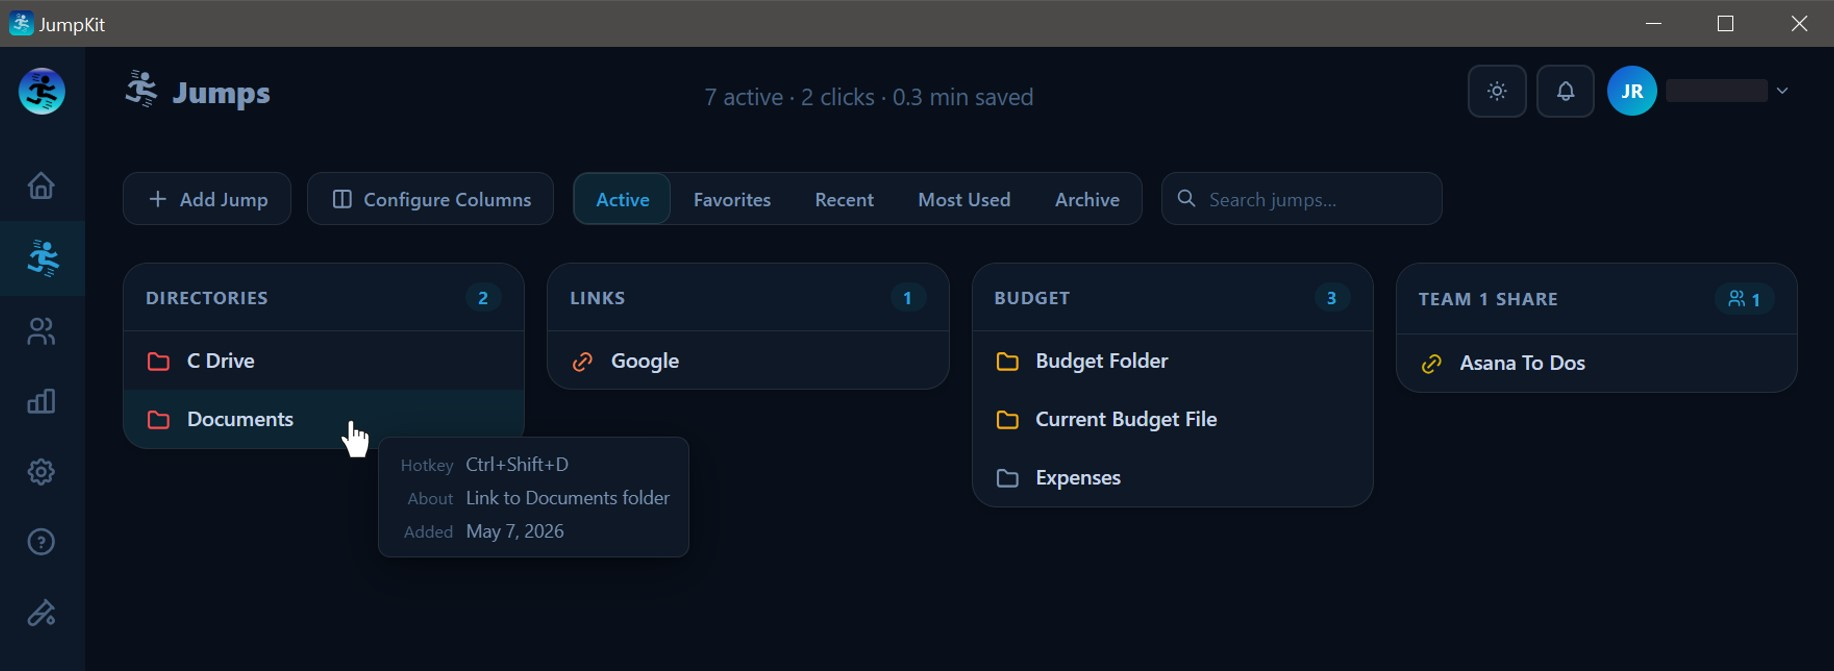
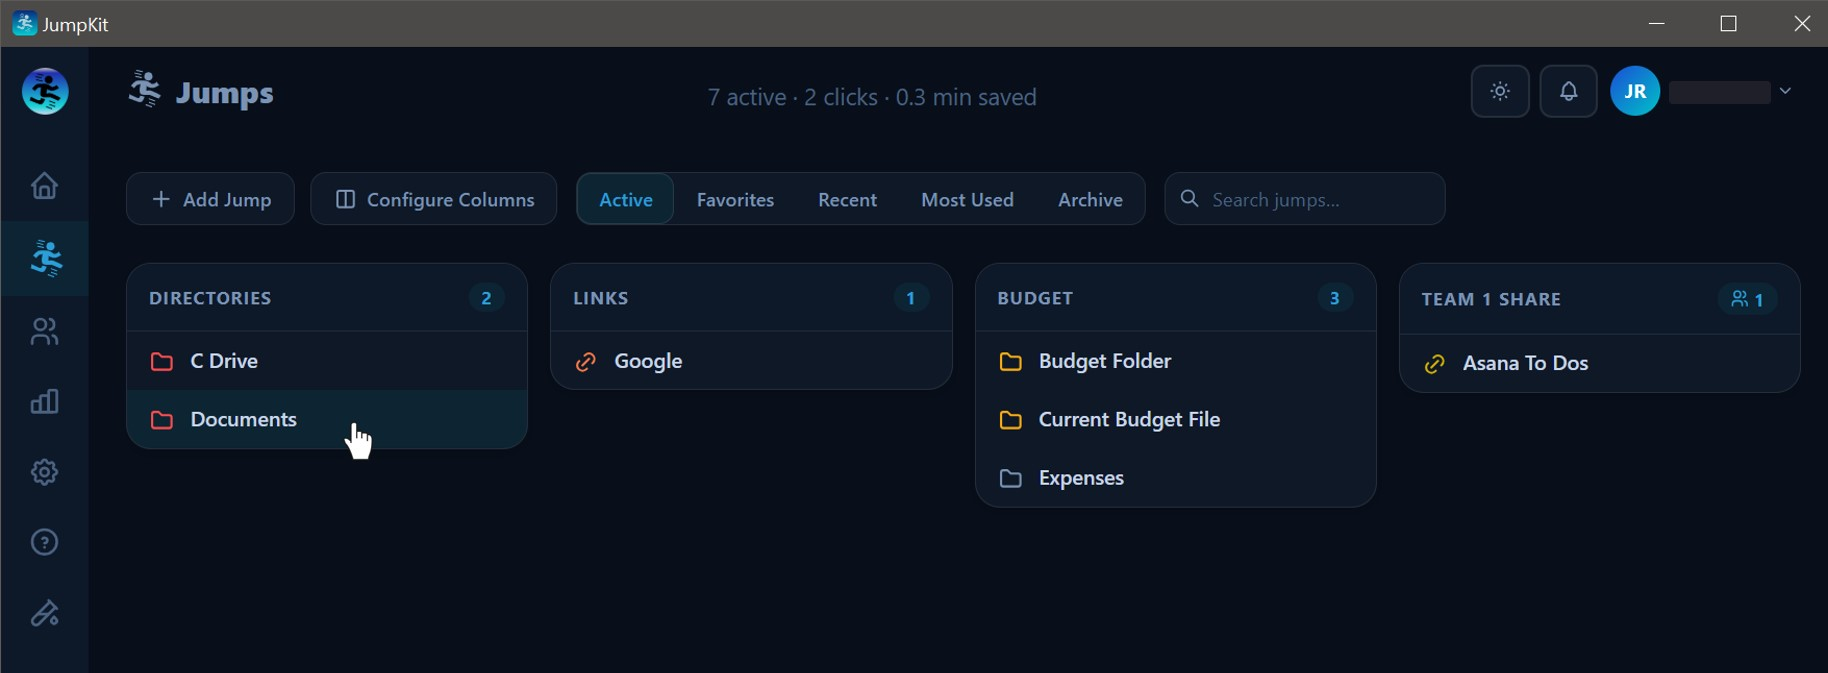
Hero: updated Windows dark/light screenshots

diff --git a/Topics/JumpKit/landing/index.html b/Topics/JumpKit/landing/index.html
@@ -90,8 +90,8 @@
           <img src="assets/Jumpkit-hero-light.png" alt="JumpKit macOS" class="hero-screenshot hero-screenshot-light" />
         </div>
         <div class="hero-screenshot-wrap hero-screenshot-win">
-          <img src="assets/hero-windows-dark.jpg" alt="JumpKit Windows" class="hero-screenshot hero-screenshot-dark" />
-          <img src="assets/hero-windows-light.jpg" alt="JumpKit Windows" class="hero-screenshot hero-screenshot-light" />
+          <img src="assets/hero-windows-dark.jpg?v=2" alt="JumpKit Windows" class="hero-screenshot hero-screenshot-dark" />
+          <img src="assets/hero-windows-light.jpg?v=2" alt="JumpKit Windows" class="hero-screenshot hero-screenshot-light" />
         </div>
       </div>
     </div>